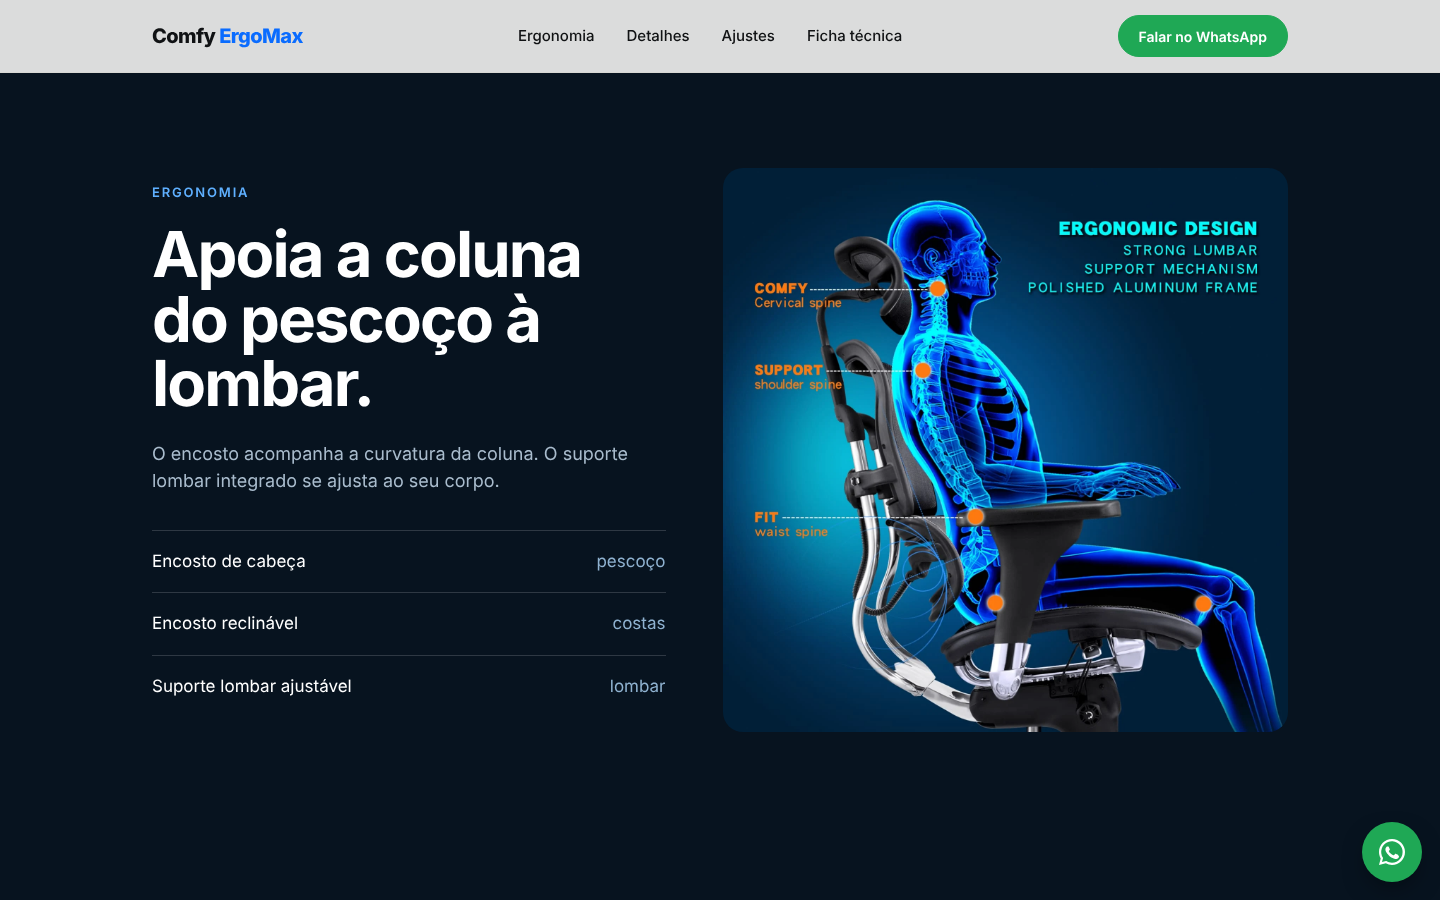
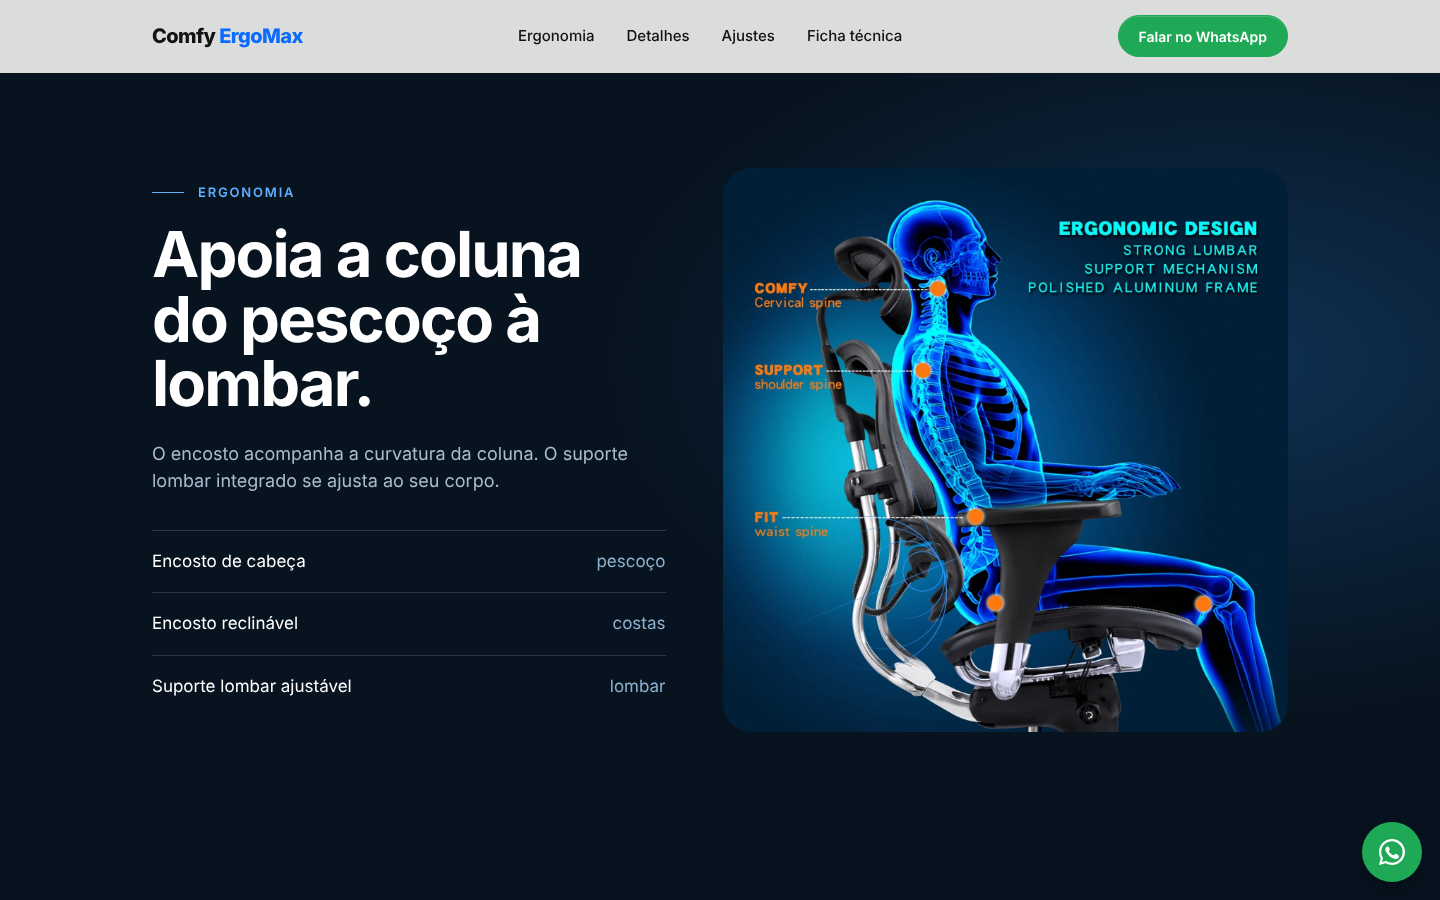
Deixa o site mais premium e com mais animação suave
Claude-Session: https://claude.ai/code/session_01TWKfsKMgRMJx9ZY86KhhWS

Changed region(s): [[0.875, 0.1867, 1.0, 0.6222], [0.0938, 0.1867, 0.1875, 0.2178]]

diff --git a/site/index.html b/site/index.html
@@ -9,6 +9,7 @@
 <meta name="site-kind" content="other">
 <meta property="og:title" content="Comfy ErgoMax, cadeira ergonômica em tela mesh preta">
 <meta property="og:image" content="img/og.jpg">
+<script>document.documentElement.classList.add("js")</script>
 <link rel="preload" as="image" href="img/tres-quartos.webp">
 <style>
 :root{
@@ -62,11 +63,12 @@ section{position:relative}
 .hero .actions{display:flex;gap:14px;flex-wrap:wrap}
 .hero .stage{position:relative;aspect-ratio:1/1;max-height:84svh;justify-self:center;width:100%}
 .hero .stage::before{content:"";position:absolute;inset:8% 6% 2%;border-radius:50%;background:radial-gradient(closest-side,#fff 0%,rgba(255,255,255,0) 72%)}
-.hero .stage img{position:relative;width:100%;height:100%;object-fit:contain;mix-blend-mode:multiply;transform:scale(1.32);transition:transform .5s cubic-bezier(.2,.7,.2,1)}
-.hero .stage:hover img{transform:scale(1.35)}
+.hero .stage img{position:relative;width:100%;height:100%;object-fit:contain;mix-blend-mode:multiply;transform:scale(var(--s,1.32));transition:transform .5s cubic-bezier(.2,.7,.2,1)}
+.hero .stage:hover img{transform:scale(calc(var(--s,1.32) + .03))}
 .fact{display:flex;gap:36px;margin-top:44px;padding-top:24px;border-top:1px solid var(--line)}
 .fact b{display:block;font-size:clamp(28px,3vw,44px);letter-spacing:-.03em;line-height:1}
 .fact span{font-size:14px;color:var(--muted)}
+.fact b span{font-size:inherit;color:inherit}
 
 /* ergonomia (escura) */
 .dark{background:var(--dark);color:#fff}
@@ -147,12 +149,53 @@ footer .wrap{display:flex;justify-content:space-between;gap:20px;flex-wrap:wrap}
 .wa-float svg{width:32px;height:32px;fill:#fff}
 .wa-float[hidden]{display:none}
 
+
+/* ---- acabamento premium ---- */
+.eyebrow::before{content:"";display:inline-block;width:32px;height:1px;background:currentColor;vertical-align:middle;margin-right:14px}
+.soft{color:#8a8f96;font-weight:600}
+h1{font-weight:800}
+.btn{box-shadow:0 1px 0 rgba(255,255,255,.18) inset}
+.btn.ghost::after,.cta .btn::after{content:"\2192";transition:transform .2s}
+.btn.ghost:hover::after,.cta .btn:hover::after{transform:translateX(4px)}
+.hero{background:radial-gradient(900px 600px at 78% 45%,#fff 0%,rgba(255,255,255,0) 70%),var(--bg)}
+.hero .stage::after{content:"";position:absolute;left:18%;right:18%;bottom:10%;height:7%;border-radius:50%;background:radial-gradient(closest-side,rgba(0,0,0,.22),rgba(0,0,0,0));filter:blur(6px);animation:shadowin 1.6s .5s cubic-bezier(.2,.7,.2,1) backwards}
+.ergo{background:radial-gradient(900px 520px at 85% 40%,#0f3153 0%,var(--dark) 68%)}
+.cta{background:radial-gradient(800px 420px at 50% 0%,#1c2a38 0%,var(--ink) 70%)}
+.cta h2{font-size:clamp(40px,6vw,88px);max-width:12ch}
+.card,.adj .big,.ergo .photo{border-radius:28px}
+.card{box-shadow:0 1px 0 rgba(0,0,0,.04),0 24px 48px -36px rgba(0,0,0,.35)}
+.spec tr:hover th,.spec tr:hover td{color:var(--ink)}
+.mat dl div{transition:padding-left .25s}
+.mat dl div:hover{padding-left:12px}
+
+/* faixa que corre */
+.strip{background:var(--ink);color:#fff;overflow:hidden;white-space:nowrap;padding:26px 0;border-block:1px solid #23272c;display:flex}
+.strip .track{flex:none;display:flex;animation:slide 38s linear infinite;will-change:transform}
+.strip span{font-size:clamp(20px,2.4vw,34px);font-weight:700;letter-spacing:-.02em;display:inline-flex;align-items:center;gap:56px;padding-right:56px}
+.strip span::after{content:"";width:8px;height:8px;border-radius:50%;background:var(--accent)}
+.strip:hover .track{animation-play-state:paused}
+
+/* entrada e revelação */
+@keyframes rise{from{opacity:0;transform:translateY(42px)}to{opacity:1;transform:none}}
+@keyframes chairin{from{opacity:0;transform:translateX(70px) scale(1.15)}to{opacity:1;transform:translateX(0) scale(var(--s,1.32))}}
+@keyframes shadowin{from{opacity:0;transform:scaleX(.4)}to{opacity:1;transform:none}}
+@keyframes slide{to{transform:translateX(-100%)}}
+.hero .wrap>div:first-child>*{animation:rise 1.1s cubic-bezier(.2,.7,.2,1) backwards}
+.hero .wrap>div:first-child>:nth-child(2){animation-delay:.12s}
+.hero .wrap>div:first-child>:nth-child(3){animation-delay:.24s}
+.hero .wrap>div:first-child>:nth-child(4){animation-delay:.36s}
+.hero .wrap>div:first-child>:nth-child(5){animation-delay:.48s}
+.hero .stage img{animation:chairin 1.5s .15s cubic-bezier(.2,.7,.2,1) backwards}
+.js .rv{opacity:0;transform:translateY(34px);transition:opacity 1s cubic-bezier(.2,.7,.2,1),transform 1s cubic-bezier(.2,.7,.2,1);transition-delay:var(--d,0s)}
+.js .rv.in{opacity:1;transform:none}
+
 /* tablet / celular */
 @media(max-width:900px){
   .nav nav{display:none}
   .screen{min-height:auto;padding:104px 0 64px}
   .hero .wrap,.ergo .wrap,.mat .wrap,.spec .wrap{grid-template-columns:1fr}
-  .hero .stage{order:-1;max-width:520px;margin-top:-24px}
+  .hero .stage{order:-1;max-width:520px;--s:1.05}
+  .hero .eyebrow{margin-top:12px}
   .hero .btn,.cta .btn{width:100%}
   .fact{gap:24px;flex-wrap:wrap}
   .adj .grid{grid-template-columns:1fr}
@@ -172,6 +215,8 @@ footer .wrap{display:flex;justify-content:space-between;gap:20px;flex-wrap:wrap}
 
 /* movimento reduzido: tudo parado e visível */
 @media(prefers-reduced-motion:reduce){
+  .js .rv{opacity:1!important;transform:none!important}
+  .strip .track,.hero .wrap>div:first-child>*,.hero .stage img,.hero .stage::after{animation:none!important}
   html{scroll-behavior:auto}
   *{transition:none!important}
   .tour{height:auto}
@@ -205,20 +250,22 @@ footer .wrap{display:flex;justify-content:space-between;gap:20px;flex-wrap:wrap}
   <div class="wrap">
     <div>
       <p class="eyebrow">Cadeira ergonômica de escritório</p>
-      <h1 id="h-hero">Comfy ErgoMax em tela mesh preta.</h1>
+      <h1 id="h-hero">Comfy ErgoMax <span class="soft">em tela mesh preta.</span></h1>
       <p>Estrutura em alumínio, encosto de cabeça, apoio lombar e braços 3D. Feita para quem passa o dia sentado.</p>
       <div class="actions">
         <a class="btn wa js-wa" href="#contato">Falar no WhatsApp</a>
         <a class="btn ghost" href="#conheca">Ver a cadeira</a>
       </div>
       <div class="fact">
-        <div><b>70 mm</b><span>de ajuste de altura no encosto</span></div>
+        <div><b><span data-count="70">70</span> mm</b><span>de ajuste de altura no encosto</span></div>
         <div><b>3 eixos</b><span>de ajuste em cada braço</span></div>
       </div>
     </div>
     <div class="stage"><img src="img/tres-quartos.webp" alt="Cadeira ergonômica Comfy ErgoMax preta com encosto de cabeça, vista em três quartos" width="1400" height="1400" fetchpriority="high"></div>
   </div>
 </section>
+
+<div class="strip" aria-hidden="true"><div class="track"><span>Tela mesh respirável</span><span>Estrutura em alumínio</span><span>Apoio lombar ajustável</span><span>Braços 3D</span><span>Encosto de cabeça</span><span>Rodízios suaves</span></div><div class="track"><span>Tela mesh respirável</span><span>Estrutura em alumínio</span><span>Apoio lombar ajustável</span><span>Braços 3D</span><span>Encosto de cabeça</span><span>Rodízios suaves</span></div></div>
 
 <section class="ergo dark screen" id="ergonomia" aria-labelledby="h-ergo">
   <div class="wrap">
@@ -331,6 +378,21 @@ footer .wrap{display:flex;justify-content:space-between;gap:20px;flex-wrap:wrap}
   var nav=document.getElementById('nav');
   function navState(){nav.classList.toggle('solid',scrollY>40)}
   addEventListener('scroll',navState,{passive:true});navState();
+
+
+  /* revelação suave ao rolar + contador */
+  var reduceM=matchMedia('(prefers-reduced-motion: reduce)').matches;
+  if(!reduceM&&'IntersectionObserver' in window){
+    var sel='.ergo .wrap>*,.adj .head>*,.adj .big,.adj .card,.mat .wrap>*,.mat dl>div,.spec .wrap>*,.cta .wrap>*';
+    [].forEach.call(document.querySelectorAll(sel),function(e){
+      var sib=[].indexOf.call(e.parentNode.children,e);
+      e.style.setProperty('--d',(sib*0.12)+'s');e.classList.add('rv');
+    });
+    var io=new IntersectionObserver(function(es){es.forEach(function(x){if(x.isIntersecting){x.target.classList.add('in');io.unobserve(x.target)}})},{threshold:.15,rootMargin:'0px 0px -6% 0px'});
+    [].forEach.call(document.querySelectorAll('.rv'),function(e){io.observe(e)});
+    var c=document.querySelector('[data-count]');
+    if(c){var to=+c.dataset.count,t0=performance.now()+500;c.textContent=0;(function n(t){var k=Math.min(1,Math.max(0,(t-t0)/1500));c.textContent=Math.round(to*(1-Math.pow(1-k,3)));if(k<1)requestAnimationFrame(n)})(performance.now())}
+  }
 
   /* cena de rolagem: câmera percorre a foto da cadeira */
   var tour=document.getElementById('conheca'),img=document.getElementById('cam');

diff --git a/.site-quality/review.md b/.site-quality/review.md
@@ -1,10 +1,11 @@
-# Revisão — Comfy ErgoMax
+# Revisão — Comfy ErgoMax (versão premium)
 
 Observado no Chromium real (desktop 1440x900 e celular 390x844), capturas em `.site-quality/evidence/`.
 
-- Abertura (`desk-hero.png`, `mob-hero.png`): a cadeira real aparece grande; título, fato (70 mm) e botão de WhatsApp na primeira tela. Corrigi o tamanho da cadeira, que estava pequeno na primeira versão.
-- Cena de rolagem (`desk-tour-5.png`, `desk-tour-37.png`, `desk-tour-67.png`, `desk-tour-97.png`, `mob-tour-67.png`): a câmera percorre a foto real da cadeira (inteira, encosto, braço, base). Corrigi cortes laterais feitos pela caixa da imagem.
-- Ergonomia, ajustes e ficha (`desk-ergonomia.png`, `desk-ajustes.png`, `desk-ficha.png`): fotos do cliente, sem texto inventado.
+- Abertura (`desk-hero.png`, `mob-hero.png`): textos sobem em sequência, a cadeira entra deslizando com sombra no chão, fundo com brilho suave, título com contraste de peso, contador "70 mm". Corrigi dois defeitos vistos nas capturas: o número do contador saía pequeno e, no celular, a cadeira passava por cima do menu.
+- Seções (`desk-ergonomia.png`, `desk-ajustes.png`, `desk-ficha.png`, `desk-contato.png`): blocos aparecem suavemente ao rolar; fundos escuros com brilho; cartões mais arredondados; botões com seta.
+- Faixa de destaques que corre devagar entre a abertura e a ergonomia (pausa ao passar o mouse; parada com movimento reduzido).
+- Cena de rolagem com a câmera sobre as fotos reais mantida (`desk-tour-*.png`, `mob-tour-*.png`).
 - Sem rolagem horizontal nos dois tamanhos.
 
-Limites: não é 3D de verdade (não há modelo 3D da cadeira; o movimento usa as fotos reais). Número de WhatsApp ainda vazio: botão está pronto e abre a conversa quando o número entrar em `config/site.json`. Não publicado na Netlify.
+Limites: não há 3D real (não existe modelo 3D da cadeira). Número de WhatsApp ainda vazio.
